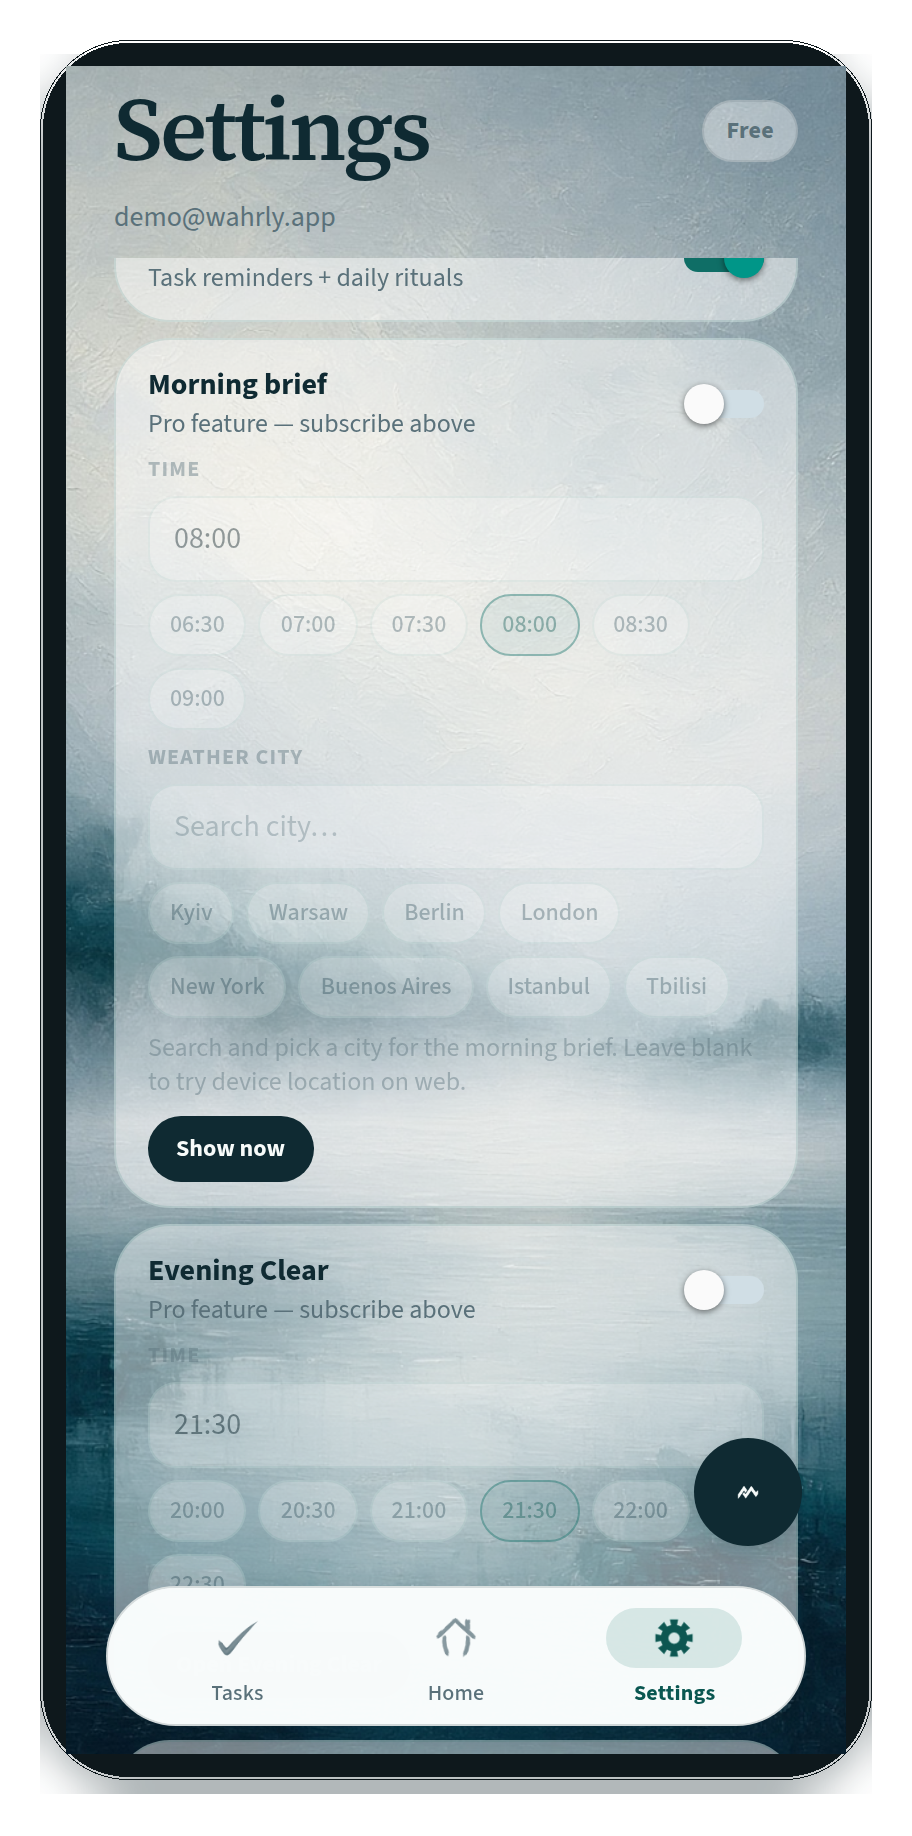
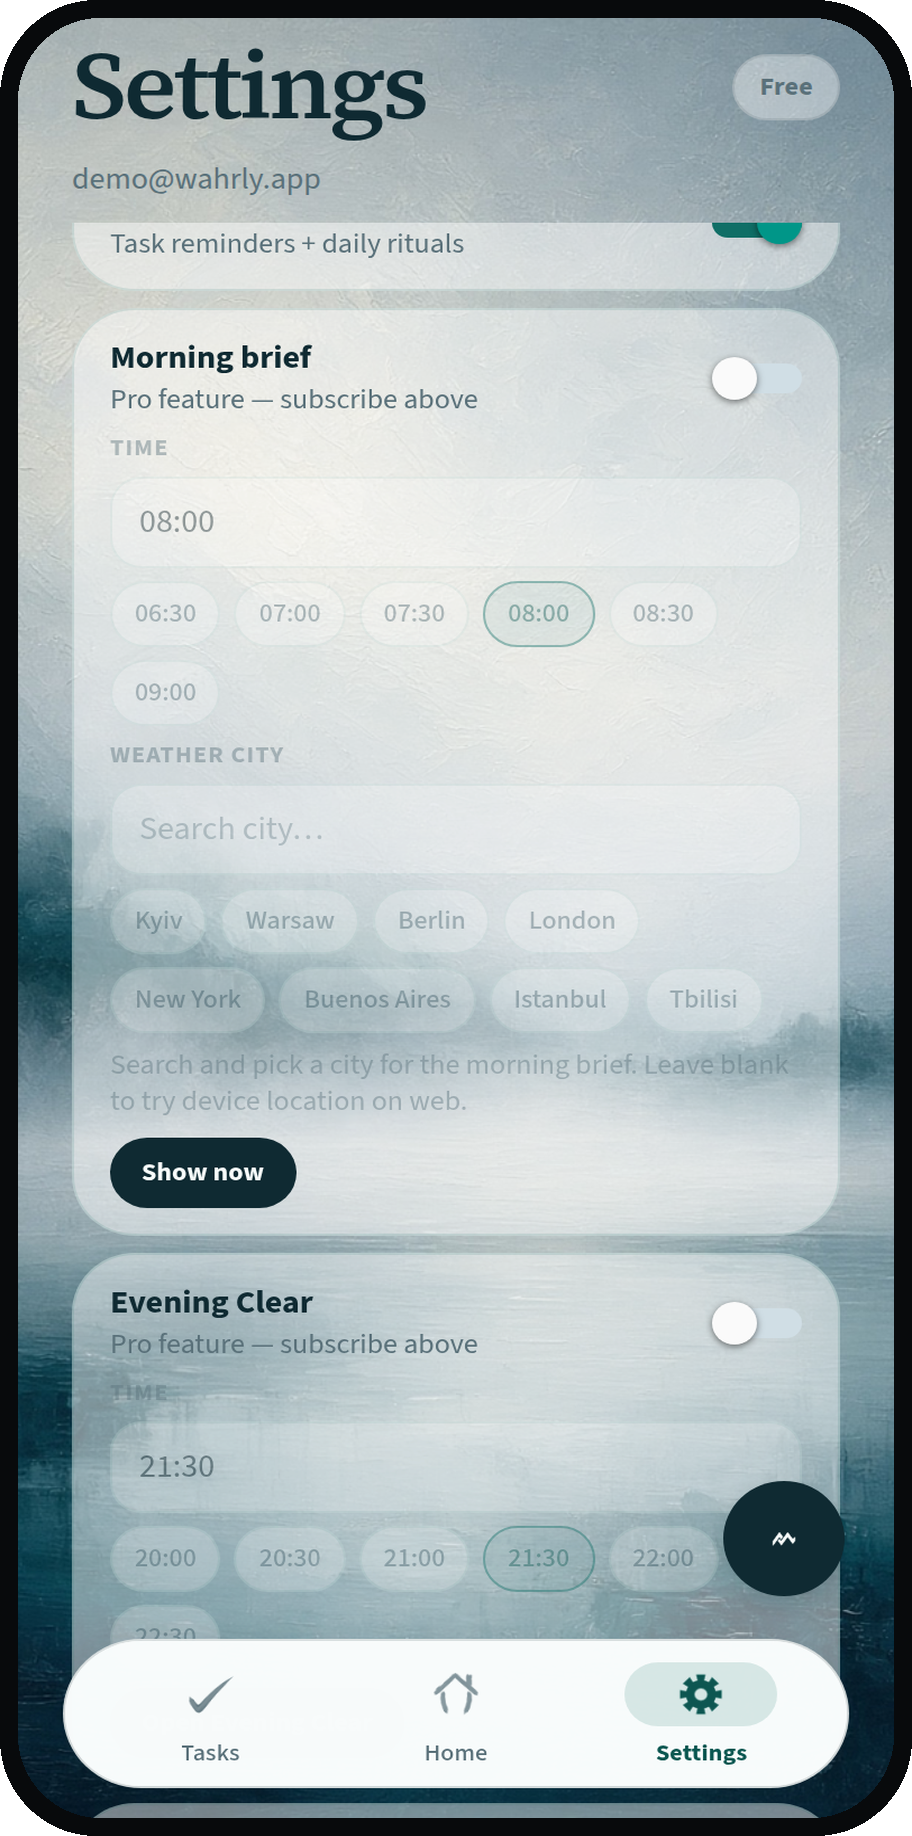
Round all landing device screens to match phone curves (#212)
Rebuild mockups from clean unframed shots, thin bezel, stronger
inner corner masks, and matching CSS clip radii.

diff --git a/nova/public-site/index.html b/nova/public-site/index.html
@@ -10,7 +10,7 @@
     />
     <meta property="og:title" content="Wahrly" />
     <meta property="og:description" content="Your life, clearly." />
-    <meta property="og:image" content="./media/devices/home.png" />
+    <meta property="og:image" content="./media/devices/home.png?v=r5" />
     <link rel="icon" href="./media/icon.png" />
     <link rel="preconnect" href="https://fonts.googleapis.com" />
     <link rel="preconnect" href="https://fonts.gstatic.com" crossorigin />
@@ -18,7 +18,7 @@
       href="https://fonts.googleapis.com/css2?family=Fraunces:opsz,wght@9..144,480;9..144,600&family=Outfit:wght@300;400;500;600&display=swap"
       rel="stylesheet"
     />
-    <link rel="stylesheet" href="./styles.css?v=all-features" />
+    <link rel="stylesheet" href="./styles.css?v=round-screens-v2" />
   </head>
   <body>
     <div class="grain" aria-hidden="true"></div>
@@ -61,7 +61,7 @@
               <img
                 class="cine-shot is-active"
                 data-shot="0"
-                src="./media/devices/home.png"
+                src="./media/devices/home.png?v=r5"
                 width="912"
                 height="1836"
                 alt=""
@@ -69,7 +69,7 @@
               <img
                 class="cine-shot"
                 data-shot="1"
-                src="./media/devices/tasks.png"
+                src="./media/devices/tasks.png?v=r5"
                 width="912"
                 height="1836"
                 alt=""
@@ -77,7 +77,7 @@
               <img
                 class="cine-shot"
                 data-shot="2"
-                src="./media/devices/chat.png"
+                src="./media/devices/chat.png?v=r5"
                 width="912"
                 height="1836"
                 alt=""
@@ -85,7 +85,7 @@
               <img
                 class="cine-shot"
                 data-shot="3"
-                src="./media/devices/dates.png"
+                src="./media/devices/dates.png?v=r5"
                 width="912"
                 height="1836"
                 alt=""
@@ -93,7 +93,7 @@
               <img
                 class="cine-shot"
                 data-shot="4"
-                src="./media/devices/bills.png"
+                src="./media/devices/bills.png?v=r5"
                 width="912"
                 height="1836"
                 alt=""
@@ -141,25 +141,25 @@
           <div class="orbit-track" data-orbit>
             <figure class="orbit-card" data-orbit-card>
               <div class="orbit-frame">
-                <img src="./media/devices/home.png" width="912" height="1836" alt="Home" />
+                <img src="./media/devices/home.png?v=r5" width="912" height="1836" alt="Home" />
               </div>
               <figcaption>Home</figcaption>
             </figure>
             <figure class="orbit-card" data-orbit-card>
               <div class="orbit-frame">
-                <img src="./media/devices/tasks.png" width="912" height="1836" alt="Tasks" />
+                <img src="./media/devices/tasks.png?v=r5" width="912" height="1836" alt="Tasks" />
               </div>
               <figcaption>Tasks</figcaption>
             </figure>
             <figure class="orbit-card" data-orbit-card>
               <div class="orbit-frame">
-                <img src="./media/devices/chat.png" width="912" height="1836" alt="Chat" />
+                <img src="./media/devices/chat.png?v=r5" width="912" height="1836" alt="Chat" />
               </div>
               <figcaption>Chat</figcaption>
             </figure>
             <figure class="orbit-card" data-orbit-card>
               <div class="orbit-frame">
-                <img src="./media/devices/dates.png" width="912" height="1836" alt="Dates" />
+                <img src="./media/devices/dates.png?v=r5" width="912" height="1836" alt="Dates" />
               </div>
               <figcaption>Dates</figcaption>
             </figure>
@@ -174,55 +174,55 @@
           <div class="orbit-track" data-orbit>
             <figure class="orbit-card" data-orbit-card>
               <div class="orbit-frame">
-                <img src="./media/devices/plan.png" width="912" height="1836" alt="Plan day" />
+                <img src="./media/devices/plan.png?v=r5" width="912" height="1836" alt="Plan day" />
               </div>
               <figcaption>Plan day</figcaption>
             </figure>
             <figure class="orbit-card" data-orbit-card>
               <div class="orbit-frame">
-                <img src="./media/devices/bills.png" width="912" height="1836" alt="Bills" />
+                <img src="./media/devices/bills.png?v=r5" width="912" height="1836" alt="Bills" />
               </div>
               <figcaption>Bills</figcaption>
             </figure>
             <figure class="orbit-card" data-orbit-card>
               <div class="orbit-frame">
-                <img src="./media/devices/shopping.png" width="912" height="1836" alt="Shopping" />
+                <img src="./media/devices/shopping.png?v=r5" width="912" height="1836" alt="Shopping" />
               </div>
               <figcaption>Shopping</figcaption>
             </figure>
             <figure class="orbit-card" data-orbit-card>
               <div class="orbit-frame">
-                <img src="./media/devices/morning.png" width="912" height="1836" alt="Morning brief" />
+                <img src="./media/devices/morning.png?v=r5" width="912" height="1836" alt="Morning brief" />
               </div>
               <figcaption>Morning</figcaption>
             </figure>
             <figure class="orbit-card" data-orbit-card>
               <div class="orbit-frame">
-                <img src="./media/devices/evening.png" width="912" height="1836" alt="Evening review" />
+                <img src="./media/devices/evening.png?v=r5" width="912" height="1836" alt="Evening review" />
               </div>
               <figcaption>Evening</figcaption>
             </figure>
             <figure class="orbit-card" data-orbit-card>
               <div class="orbit-frame">
-                <img src="./media/devices/life.png" width="912" height="1836" alt="Life" />
+                <img src="./media/devices/life.png?v=r5" width="912" height="1836" alt="Life" />
               </div>
               <figcaption>Life</figcaption>
             </figure>
             <figure class="orbit-card" data-orbit-card>
               <div class="orbit-frame">
-                <img src="./media/devices/news.png" width="912" height="1836" alt="News" />
+                <img src="./media/devices/news.png?v=r5" width="912" height="1836" alt="News" />
               </div>
               <figcaption>News</figcaption>
             </figure>
             <figure class="orbit-card" data-orbit-card>
               <div class="orbit-frame">
-                <img src="./media/devices/invest.png" width="912" height="1836" alt="Invest" />
+                <img src="./media/devices/invest.png?v=r5" width="912" height="1836" alt="Invest" />
               </div>
               <figcaption>Invest</figcaption>
             </figure>
             <figure class="orbit-card" data-orbit-card>
               <div class="orbit-frame">
-                <img src="./media/devices/settings.png" width="912" height="1836" alt="Wahrly Pro" />
+                <img src="./media/devices/settings.png?v=r5" width="912" height="1836" alt="Wahrly Pro" />
               </div>
               <figcaption>Pro</figcaption>
             </figure>
@@ -258,7 +258,7 @@
           <div class="strip-visual reveal">
             <div class="strip-phone">
               <div class="orbit-frame">
-                <img src="./media/devices/home.png" width="912" height="1836" alt="Wahrly Home" />
+                <img src="./media/devices/home.png?v=r5" width="912" height="1836" alt="Wahrly Home" />
               </div>
             </div>
           </div>
@@ -288,6 +288,6 @@
       </div>
     </footer>
 
-    <script src="./motion.js?v=all-features" defer></script>
+    <script src="./motion.js?v=round-screens-v2" defer></script>
   </body>
 </html>

diff --git a/nova/public-site/styles.css b/nova/public-site/styles.css
@@ -225,8 +225,8 @@ a {
   height: 0;
   padding-bottom: 201.315789%; /* 1836 / 912 */
   overflow: hidden;
-  border-radius: 36px;
-  background: #0a1518;
+  border-radius: 48px;
+  background: transparent;
 }
 
 .cine-shot {
@@ -499,8 +499,8 @@ a {
   height: 0;
   padding-bottom: 201.315789%; /* 1836 / 912 — locks ratio on iOS */
   overflow: hidden;
-  border-radius: 28px;
-  background: #0a1518;
+  border-radius: 44px;
+  background: transparent;
 }
 
 .orbit-frame img {
